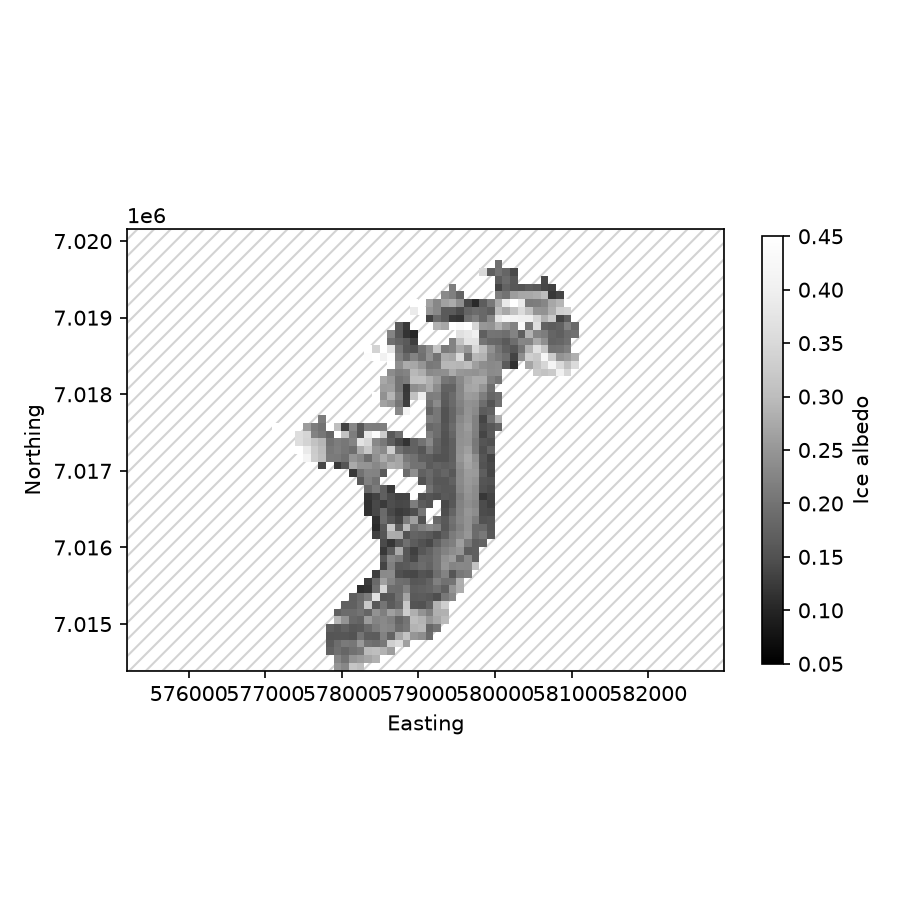
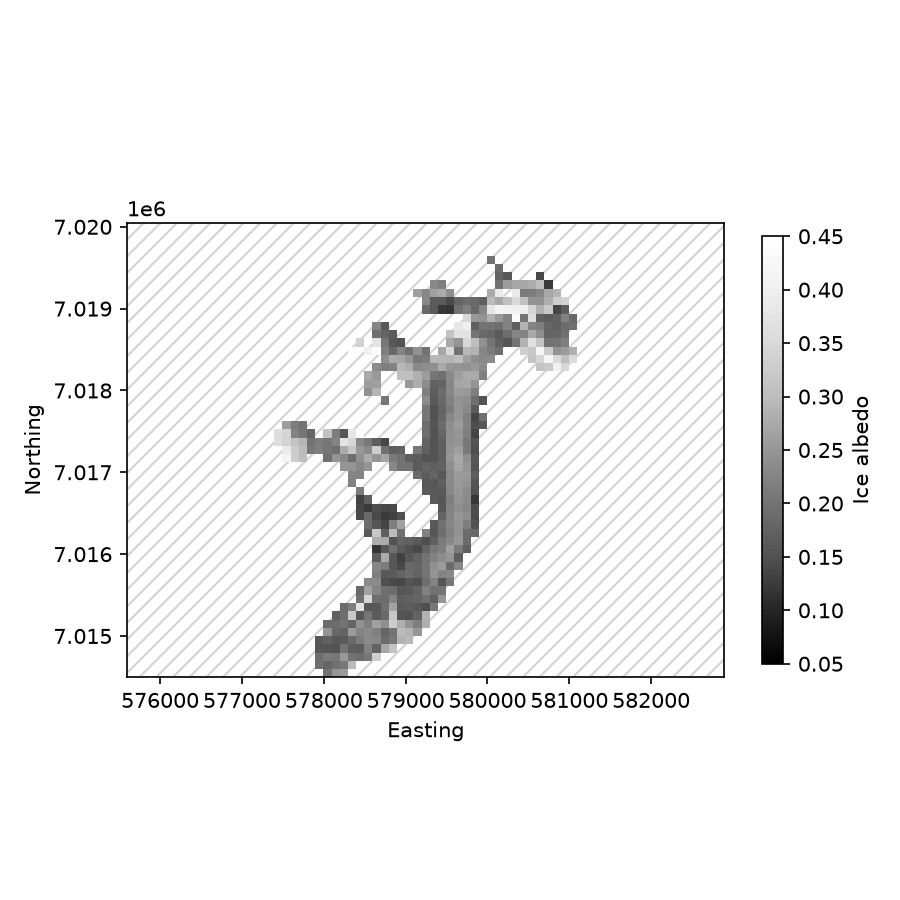
added pixel buffer to ice albedo tifs to limit how much off-glacier is captured

diff --git a/project/generate_ice_albedo_tif.py b/project/generate_ice_albedo_tif.py
@@ -16,7 +16,7 @@ import rasterio
 from pyproj import Transformer
 from data_handling import translate_rgi
 
-glaciers = ['gulkana'] # ['kahiltna','gulkana','kennicott','wolverine','lemon_creek','taku']
+glaciers = ['kahiltna','gulkana','kennicott','wolverine','lemon_creek','taku']
 
 # define filepaths
 base_fp = '/ocean/projects/ees260009p/cwilson4/data/'
@@ -29,6 +29,11 @@ sar_direction_use = 'both'
 buffer = 0
 # albedo above threshold is filtered out (assumed to be snow)
 albedo_threshold = 0.55
+# AVERAGED albedo at the end is thrown out above this value
+final_albedo_threshold = 0.45
+# pixels within this many pixel-widths of the RGI outline are thrown out,
+# since that outline is ~2000-era and glaciers have since retreated
+edge_buffer_px = 1
 # difference in snowline between SAR and albedo thresholds above this threshold is thrown out
 snowline_threshold = 300
 # store average ice albedo in site_constants?
@@ -190,7 +195,16 @@ for glacier in glaciers:
                              .mean(dim=['time']))
 
     # take overall average albedo 
-    average_spatial_albedo = ds_masked['albedo'].median(dim=['time'])
+    ds_median = ds_masked['albedo'].median(dim=['time'])
+
+    average_spatial_albedo = ds_median.where(ds_median <= final_albedo_threshold)
+
+    # drop pixels near the outline: likely newly-exposed ground, not ice
+    pixel_size = abs(average_spatial_albedo.rio.resolution()[0])
+    eroded_outline = glacier_outline.copy()
+    eroded_outline['geometry'] = eroded_outline.buffer(-edge_buffer_px * pixel_size)
+    average_spatial_albedo = average_spatial_albedo.rio.clip(
+        eroded_outline.geometry.values, eroded_outline.crs)
 
     average_spatial_albedo.rio.to_raster(
         output_fp + f'{rgi6id}_albedo.tif',
@@ -198,3 +212,5 @@ for glacier in glaciers:
         compress='deflate',
         tiled=True
     )
+
+    print(f'Saved {rgi6id}_albedo.tif')
